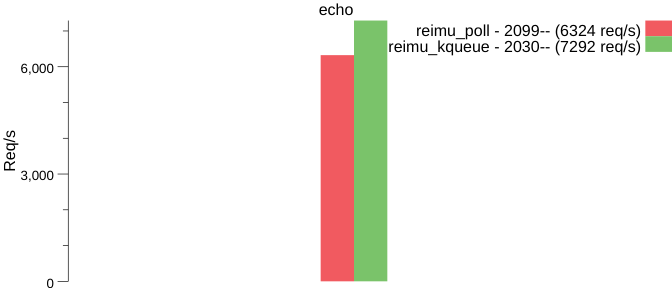
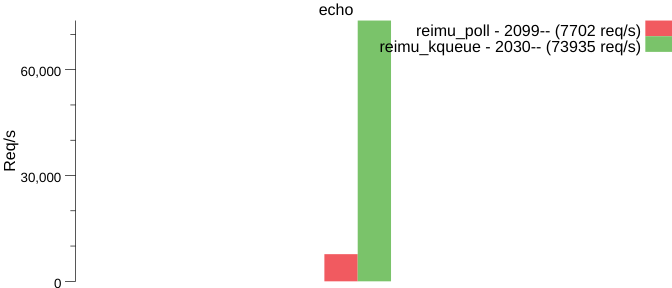
修复傻逼bug

diff --git a/reimu/event/EventLoop.cpp b/reimu/event/EventLoop.cpp
@@ -13,7 +13,7 @@ namespace reimu {
     public:
         DefaultEventLoopImp(EventLoop *loop) {
             _loop = loop;
-            _threading_pool = std::make_shared<ThreadingPool>(3,-1);
+            _threading_pool = std::make_shared<ThreadingPool>(4,-1);
             _threading_pool->Start();
             _poller = std::make_unique<Poller>();
         }
@@ -128,7 +128,7 @@ namespace reimu {
             return;
         } else {
             ChannelList activeChannels;
-            _poller->Poll(1000, activeChannels);
+            _poller->Poll(100, activeChannels);
             for (auto &c : activeChannels) {
                 // 并发处理
                 if (c->GetEvents() & (_poller->REIMU_POLLIN | _poller->REIMU_POLLERR)) {

diff --git a/reimu/TcpConn.cpp b/reimu/TcpConn.cpp
@@ -44,7 +44,6 @@ namespace reimu {
         size_t sended = 0;
         auto s = _output_buf->ToSlice();
         while (sended < s.size()) {
-            auto sended_s = _output_buf->ToSlice();
             size_t t = write(_channel->Fd(), s.data(), s.size());
             _output_buf->Consume(t);
             sended = sended + t;
@@ -70,8 +69,8 @@ namespace reimu {
 
     void TcpConn::handleRead() {
         refreshTimeoutTimer();
-        auto conn = shared_from_this();
         while (_state == TcpConn::CONNECTED) {
+            auto conn = shared_from_this();
             char buffer[READ_BUFFER_SIZE];
             bzero(buffer, READ_BUFFER_SIZE);
             size_t n = readImp(_channel->Fd(), buffer, sizeof(buffer));
